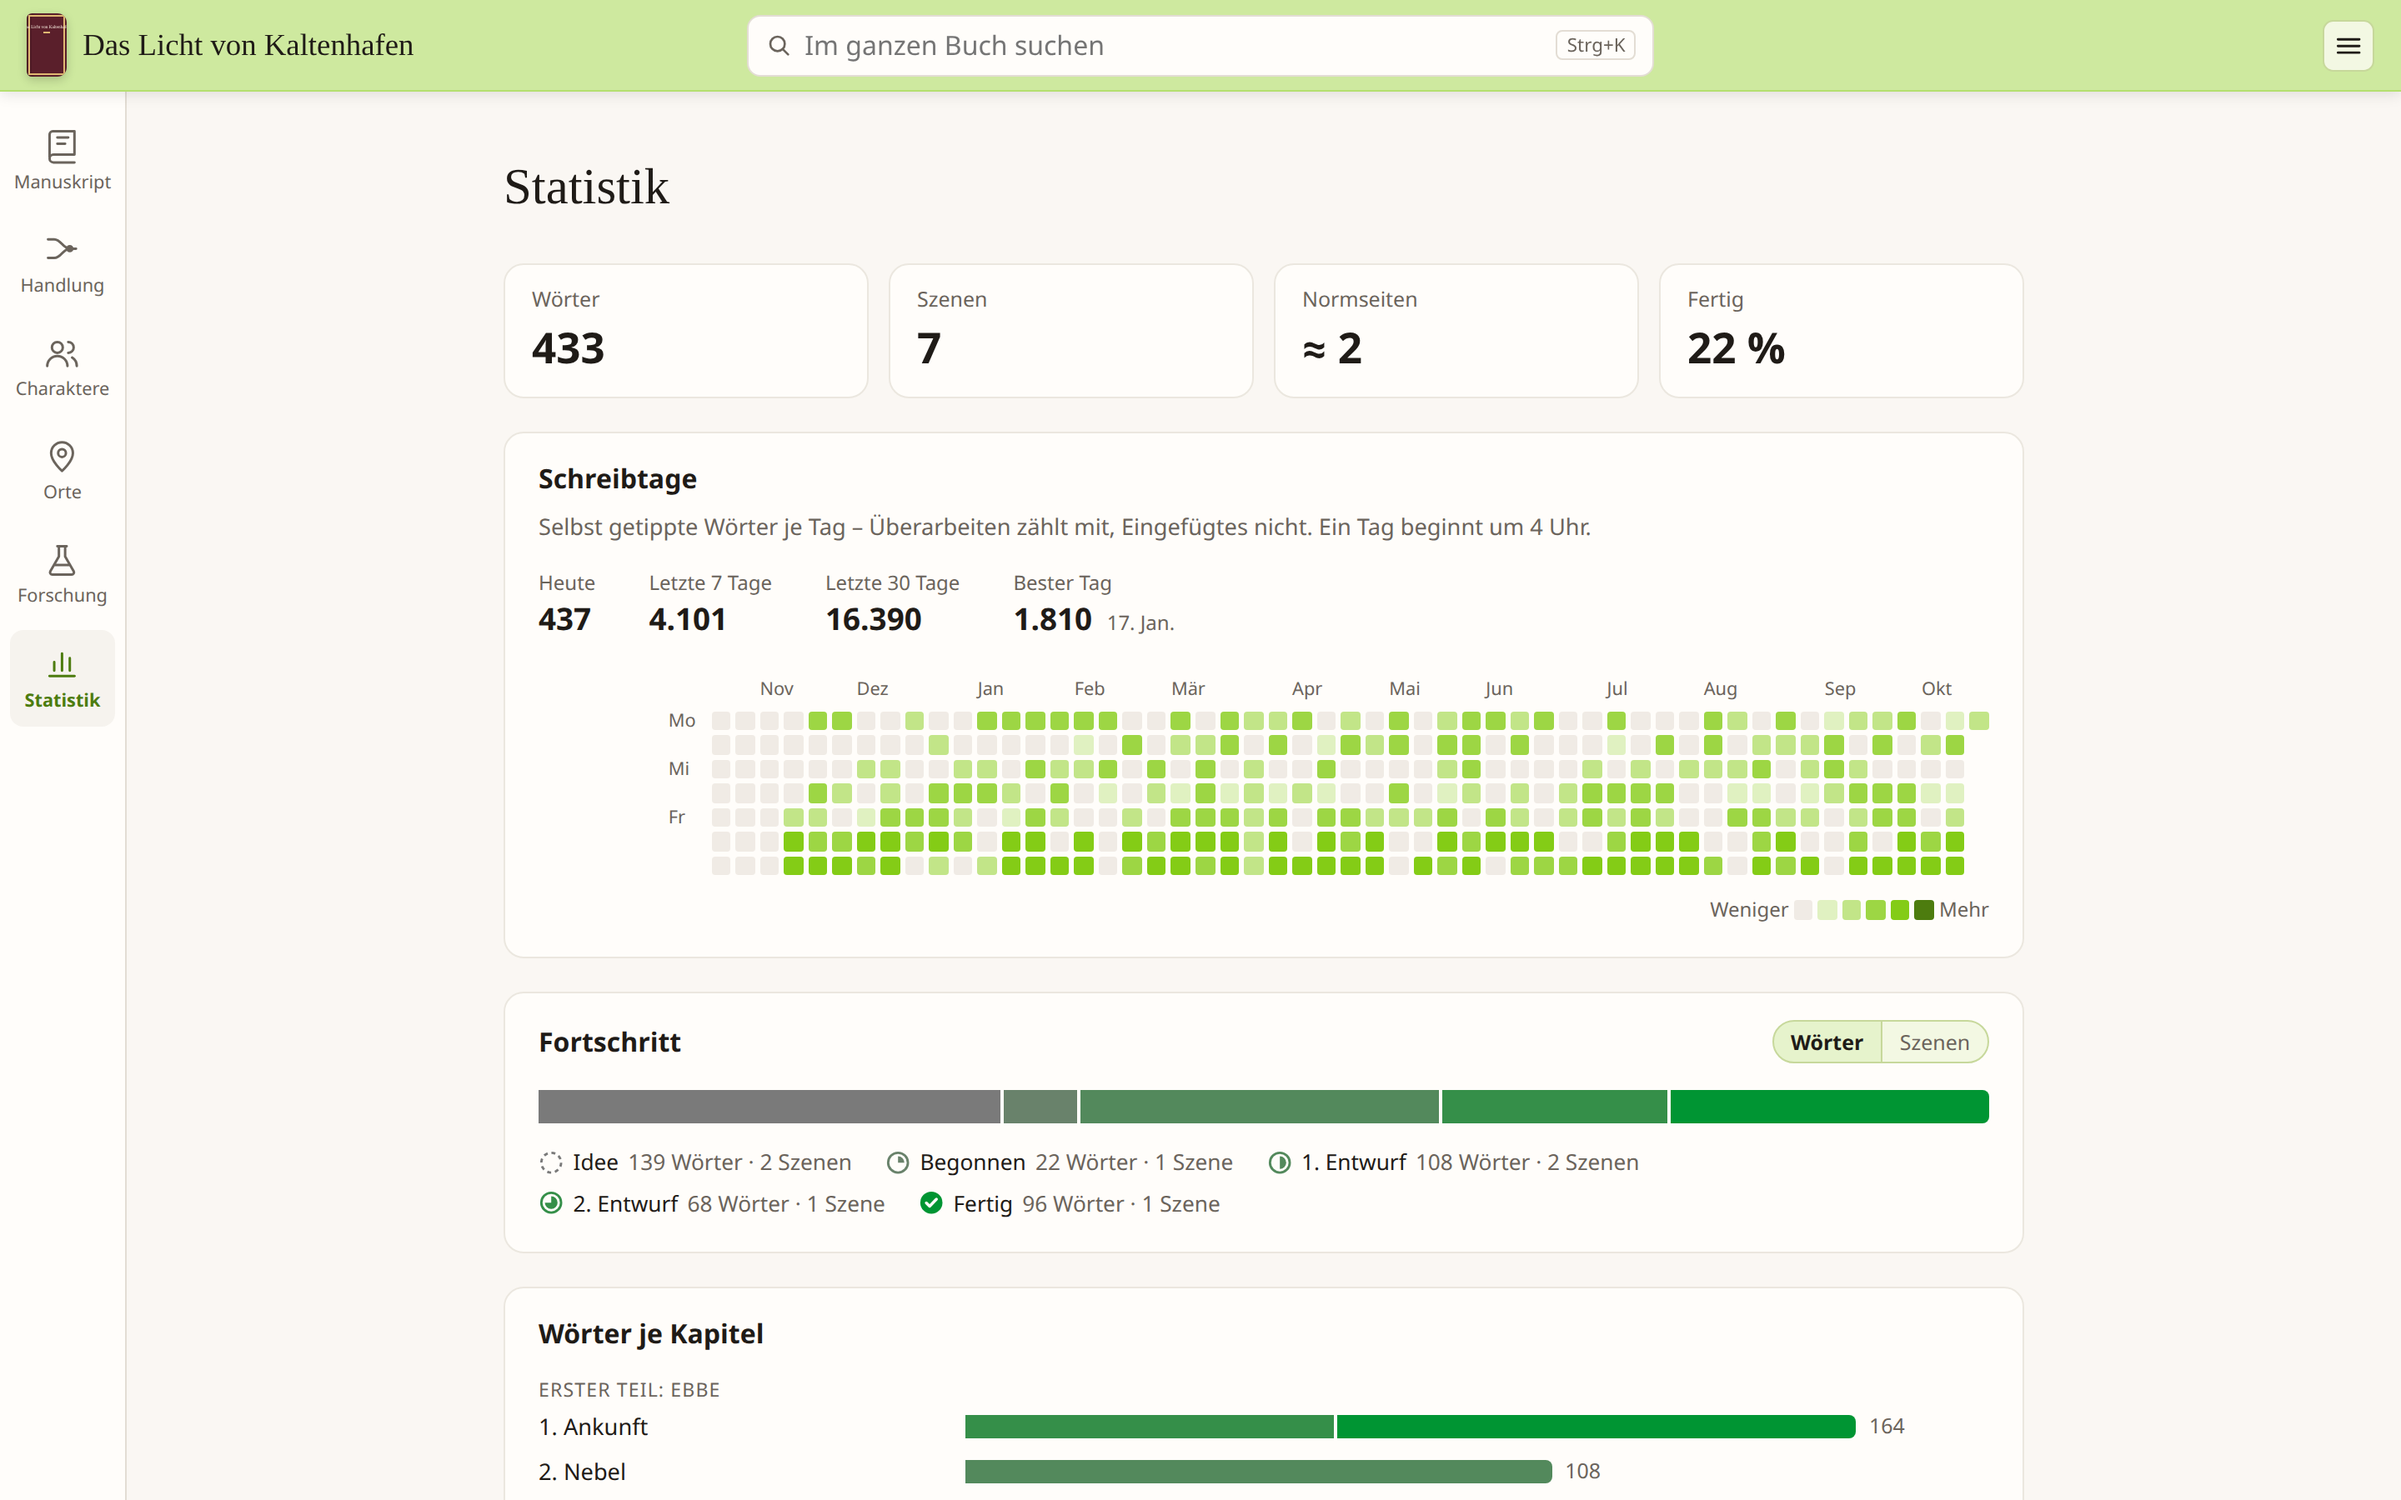
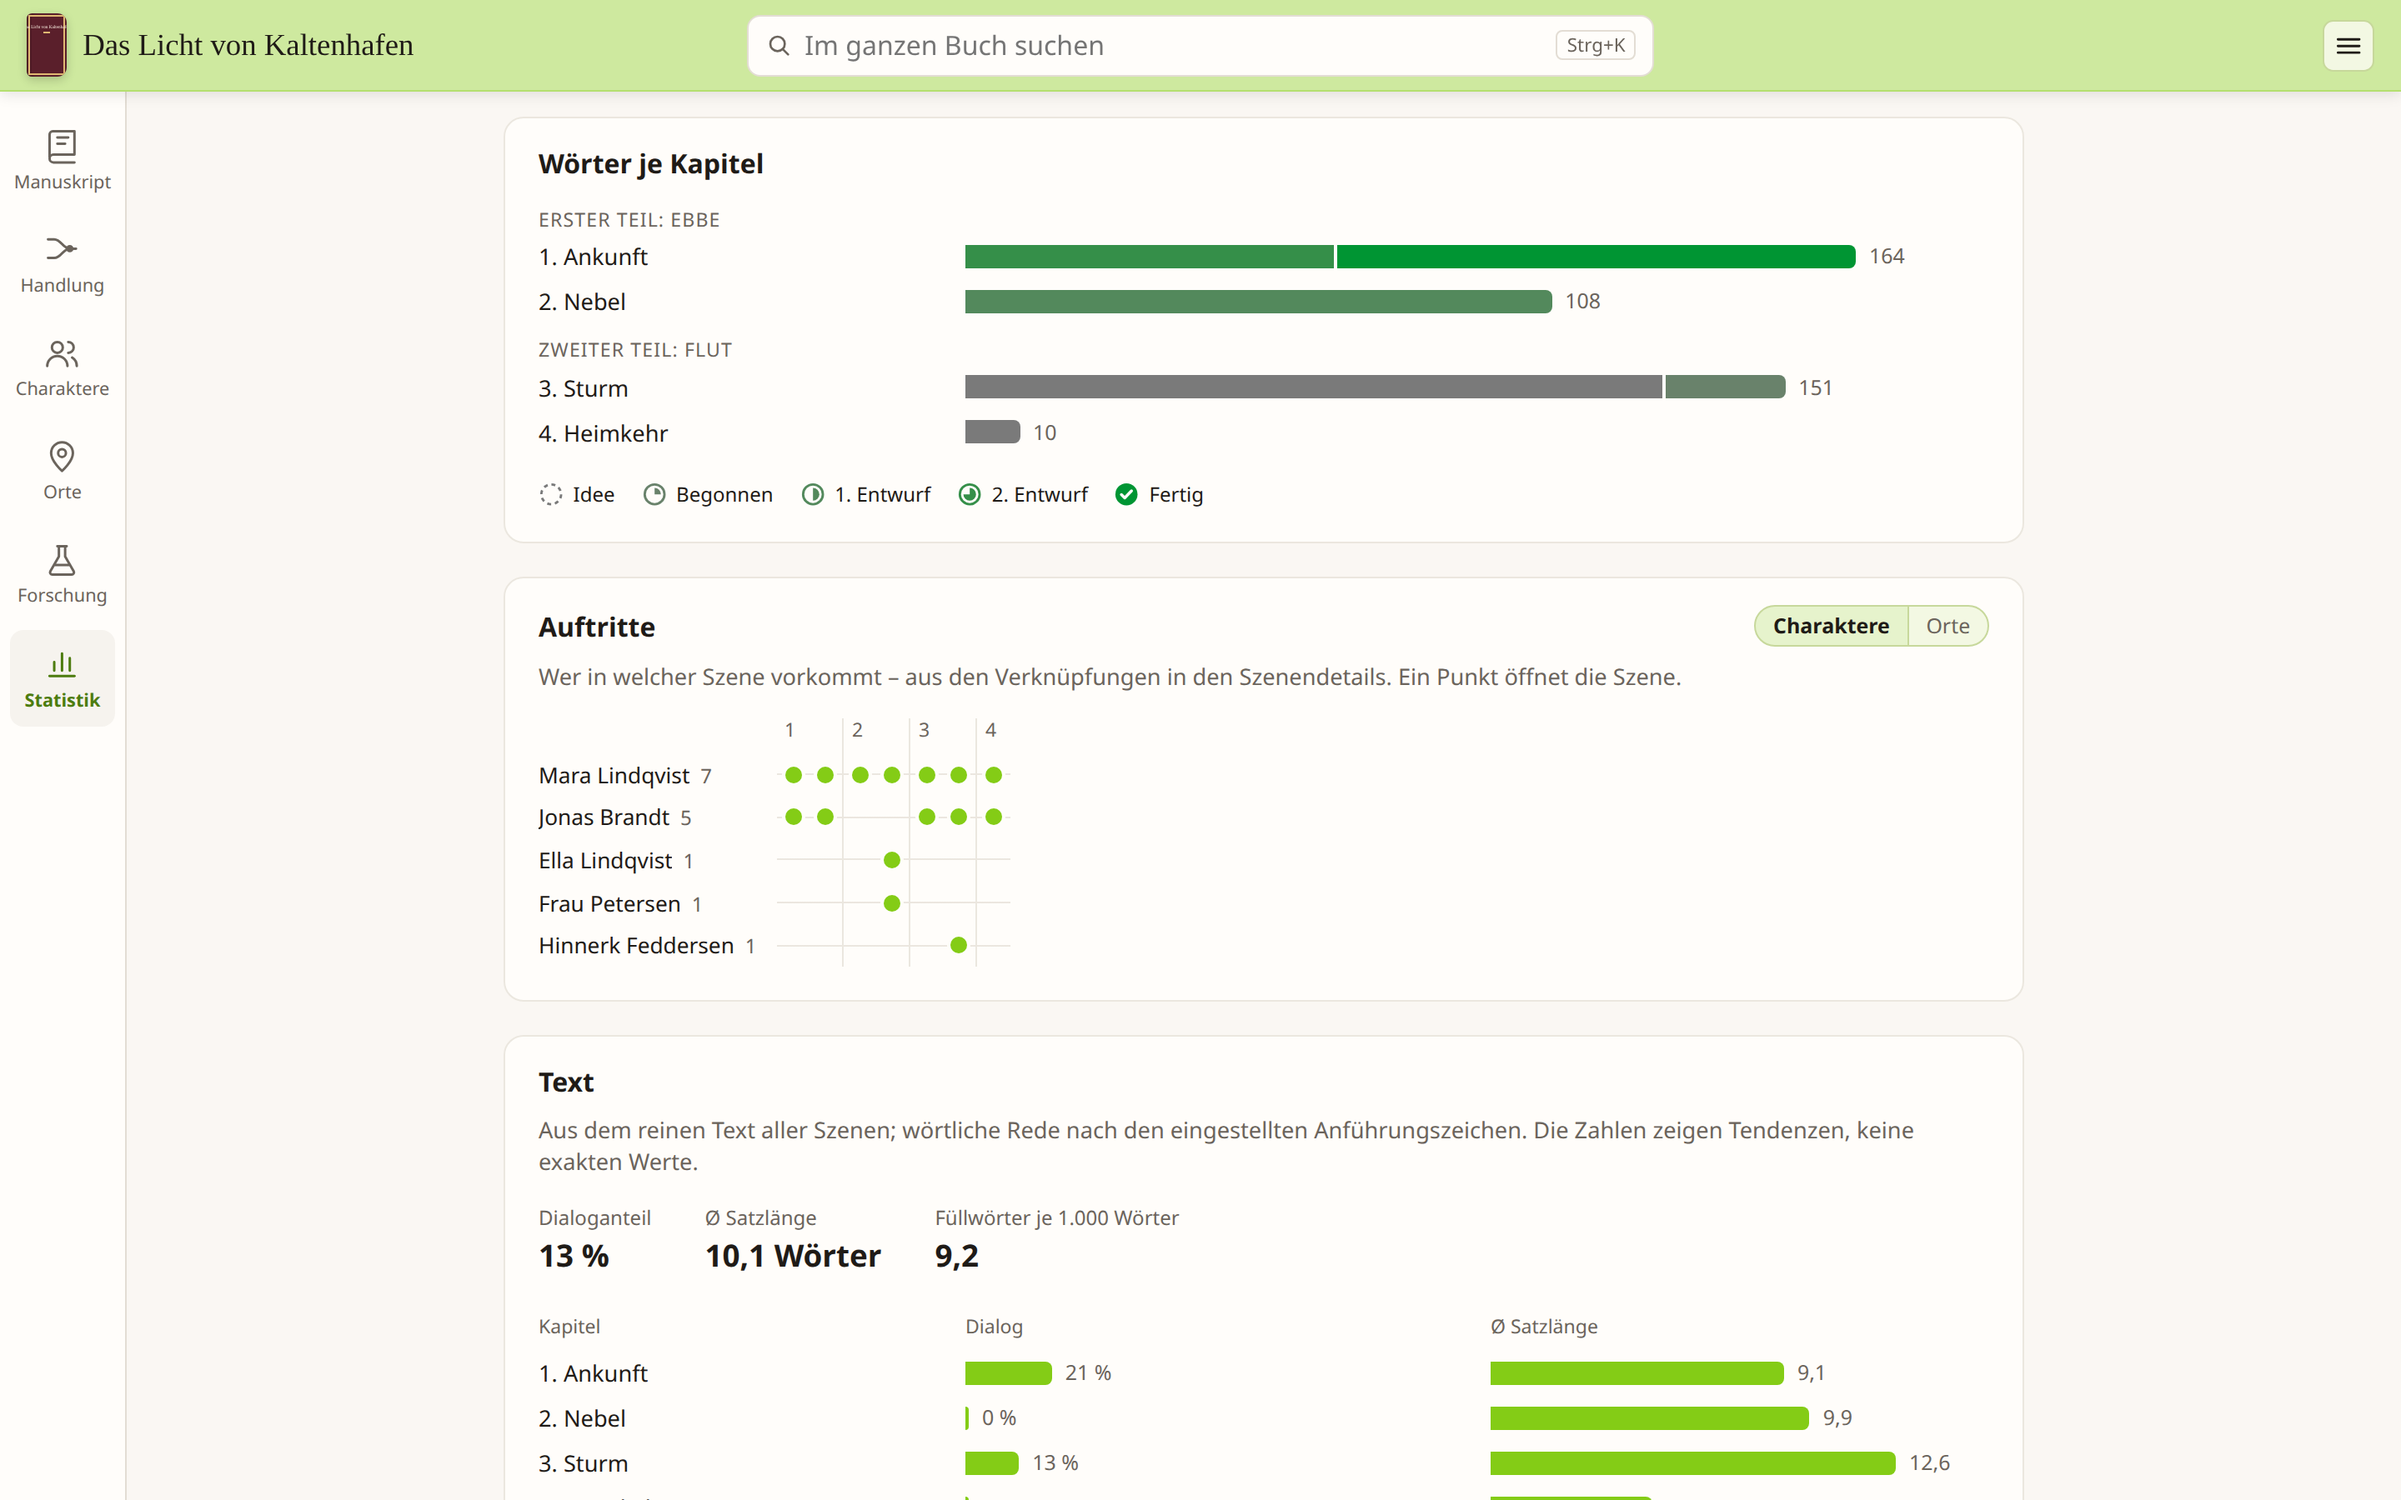
Show the appearances card in the statistics screenshot

diff --git a/docs/index.html b/docs/index.html
@@ -312,7 +312,7 @@
             </p>
           </div>
           <div class="shots">
-            <figure class="shot"><img src="screenshots/stats.png" width="2880" height="1800" loading="lazy" alt="Statistikseite mit Kacheln, Schreibkalender und Fortschrittsbalken" /></figure>
+            <figure class="shot"><img src="screenshots/stats.png" width="2880" height="1800" loading="lazy" alt="Statistikseite mit Wörtern je Kapitel und den Auftritten der Figuren über die Kapitel" /></figure>
           </div>
         </article>
 

diff --git a/e2e/screenshots/capture.spec.ts b/e2e/screenshots/capture.spec.ts
@@ -133,6 +133,10 @@ test('workspace', async ({ page, request }) => {
   await shoot(page, 'map');
 
   await page.goto('/write/stats');
+  // The appearances card sits further down; it shows which character turns up when.
+  await page
+    .locator('section.card', { has: page.getByRole('heading', { name: 'Auftritte' }) })
+    .evaluate((el) => el.scrollIntoView({ block: 'center' }));
   await shoot(page, 'stats');
 
   await page.goto('/export');
